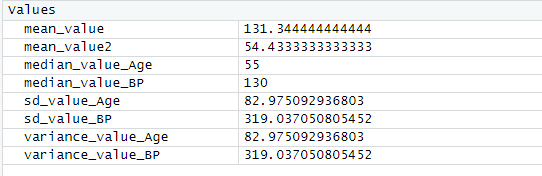
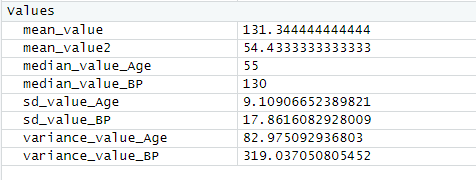
Milestone 6 code + html

diff --git a/index.html b/index.html
@@ -64,5 +64,20 @@
     <p>This graph describes the frequency of types of chest pain felt by the patients. 1 is typical angina, 2 <br> is
     atypical angina, 3 is non-anginal pain, and 4 is asymptomatic. While most of the patients were asymptomatic, the 2nd most <br>
     frequent was non-anginal pain which is associated with pain in the chest that is not related to the heart.</p>
+    <h2 id="desc">Milestone 6</h2>
+    <h4 id="desc">Values:</h4>
+    <img src="m6_values.png" alt="m6 values">
+    <p>1. The mean and median values are different. The mean values for Age (mean_value) represents the average Age
+        of the individuals. <br>This suggests that the individuals are, on average,relatively old. As for the blood pressure mean (mean_value2)
+        this suggests that <br>the individuals have relatively high blood pressure. The median values are different, however this is not
+        <br> suprising as it was not expected to be similar due to taking two different measures.<br><br>
+        2. As for the standard deviation (SD), The SD of the ages is lower than the blood pressure column. This<br>
+        means that the values are likely to be more spread out in the blood pressure column than the ages column.<br>
+        In other words, the values in ages are more clustered together around the mean than in bloodpressure.
+    </p>
+
+
+    
+
 </body>
 </html>
